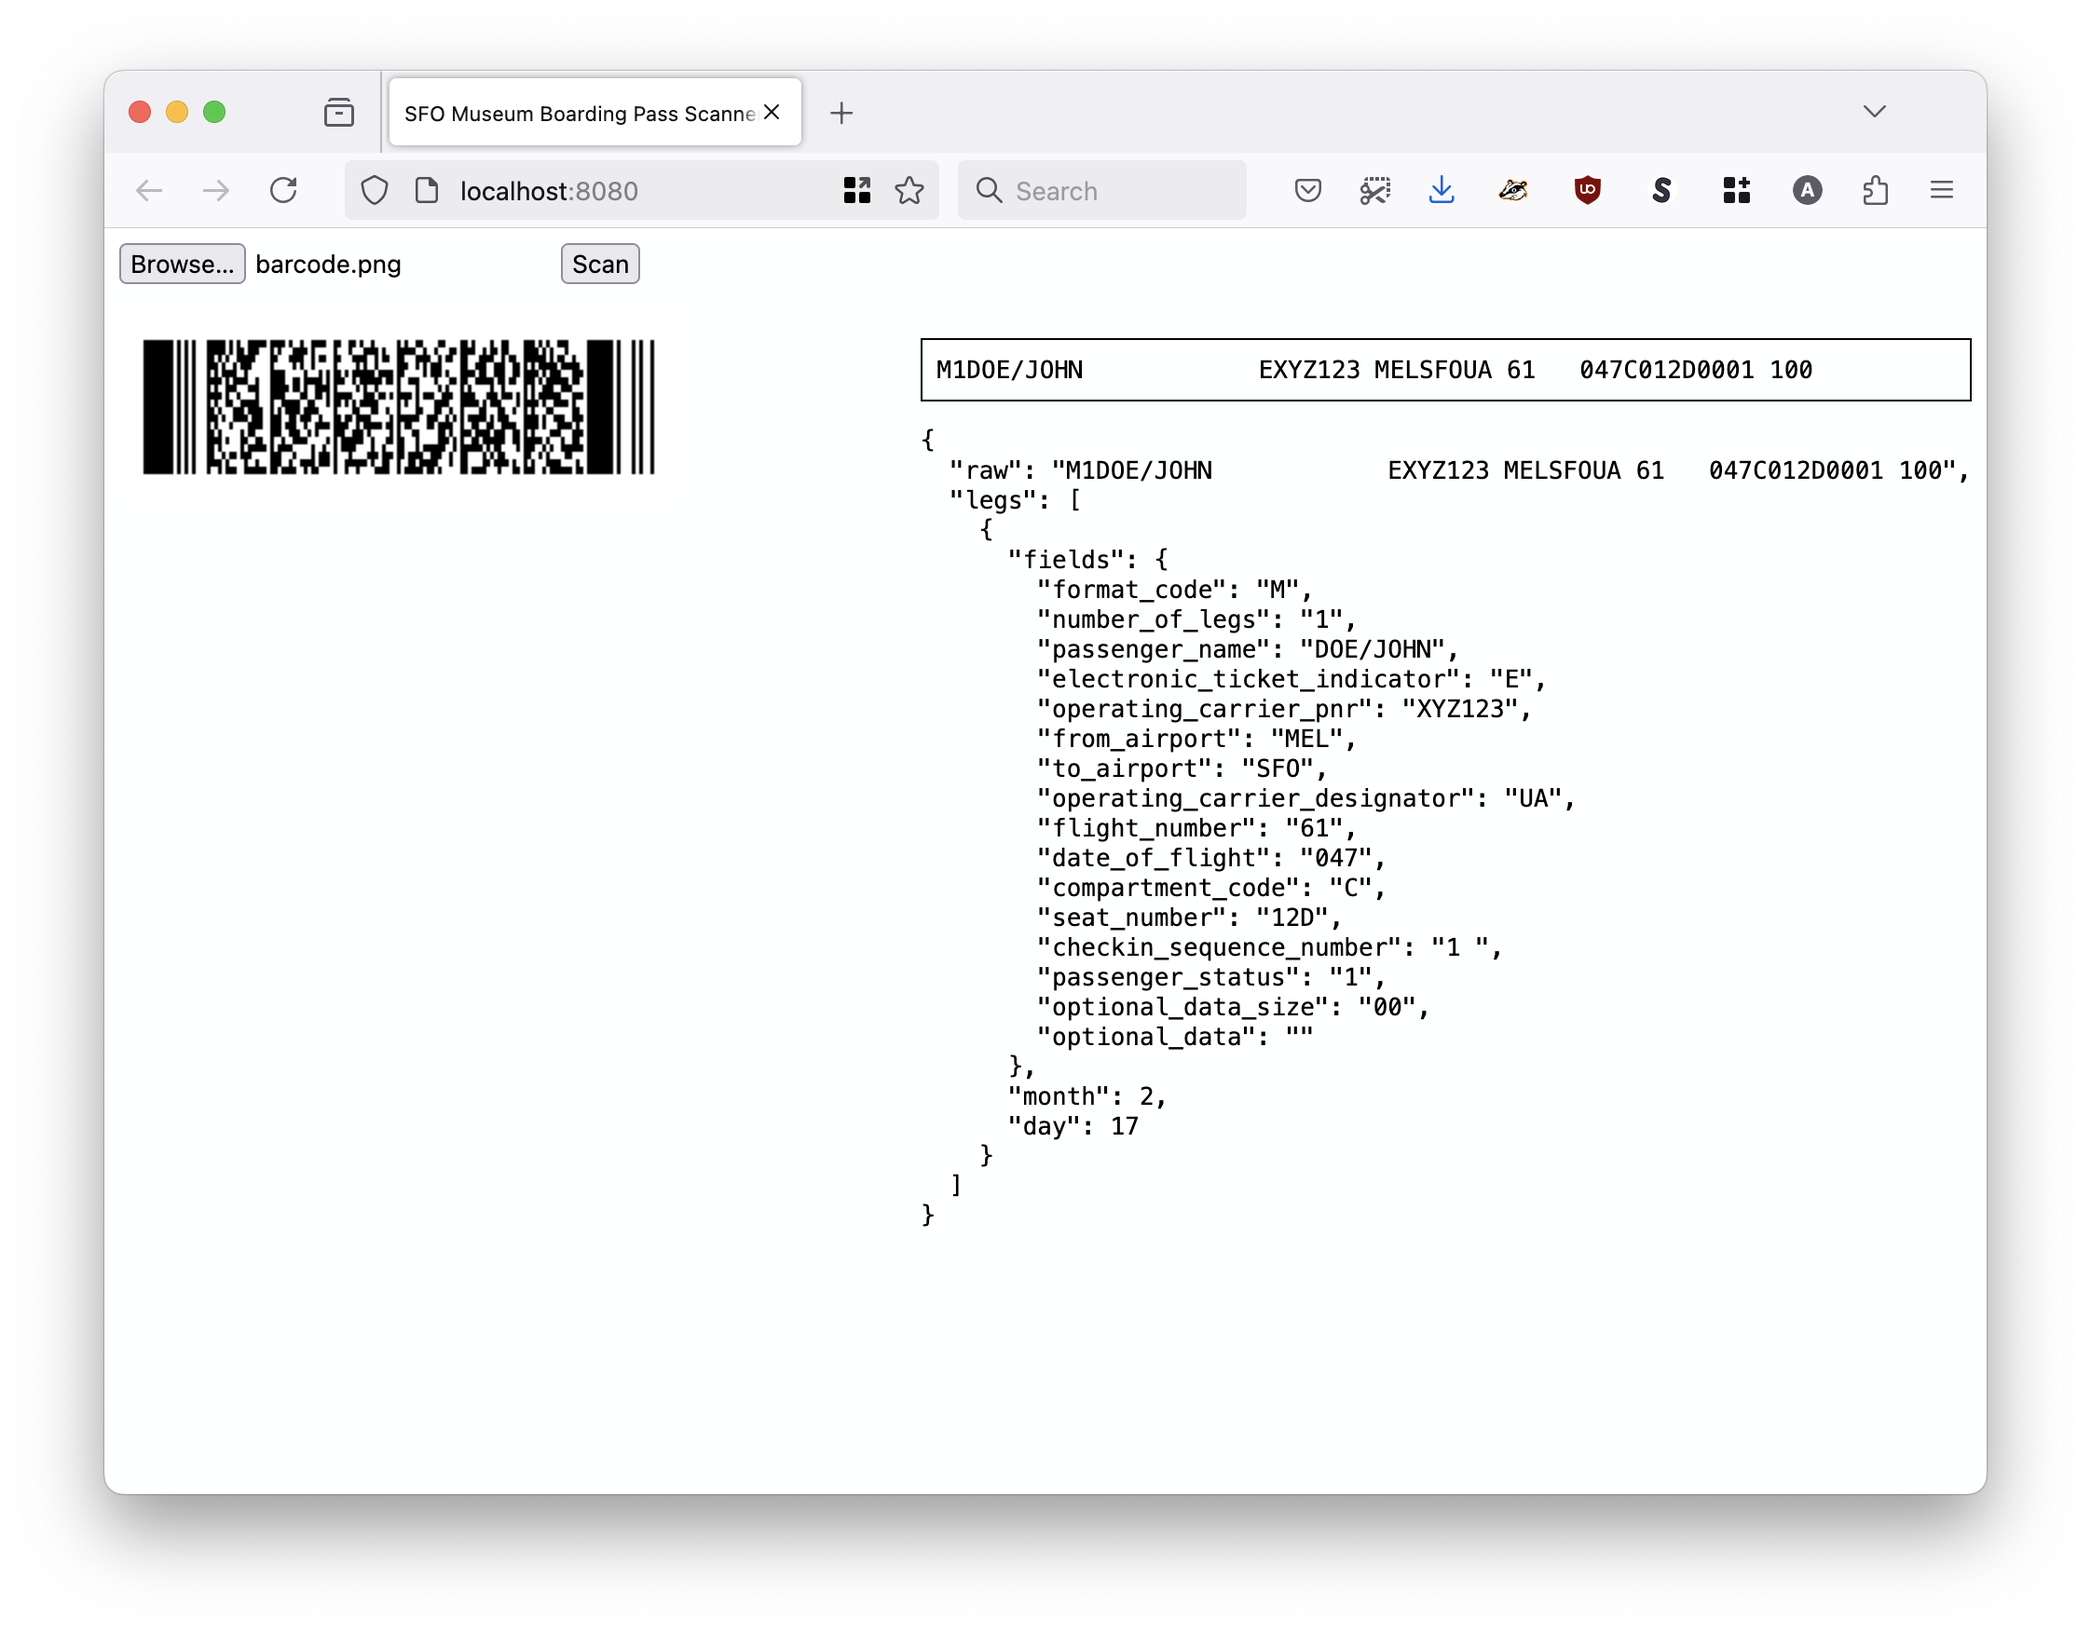
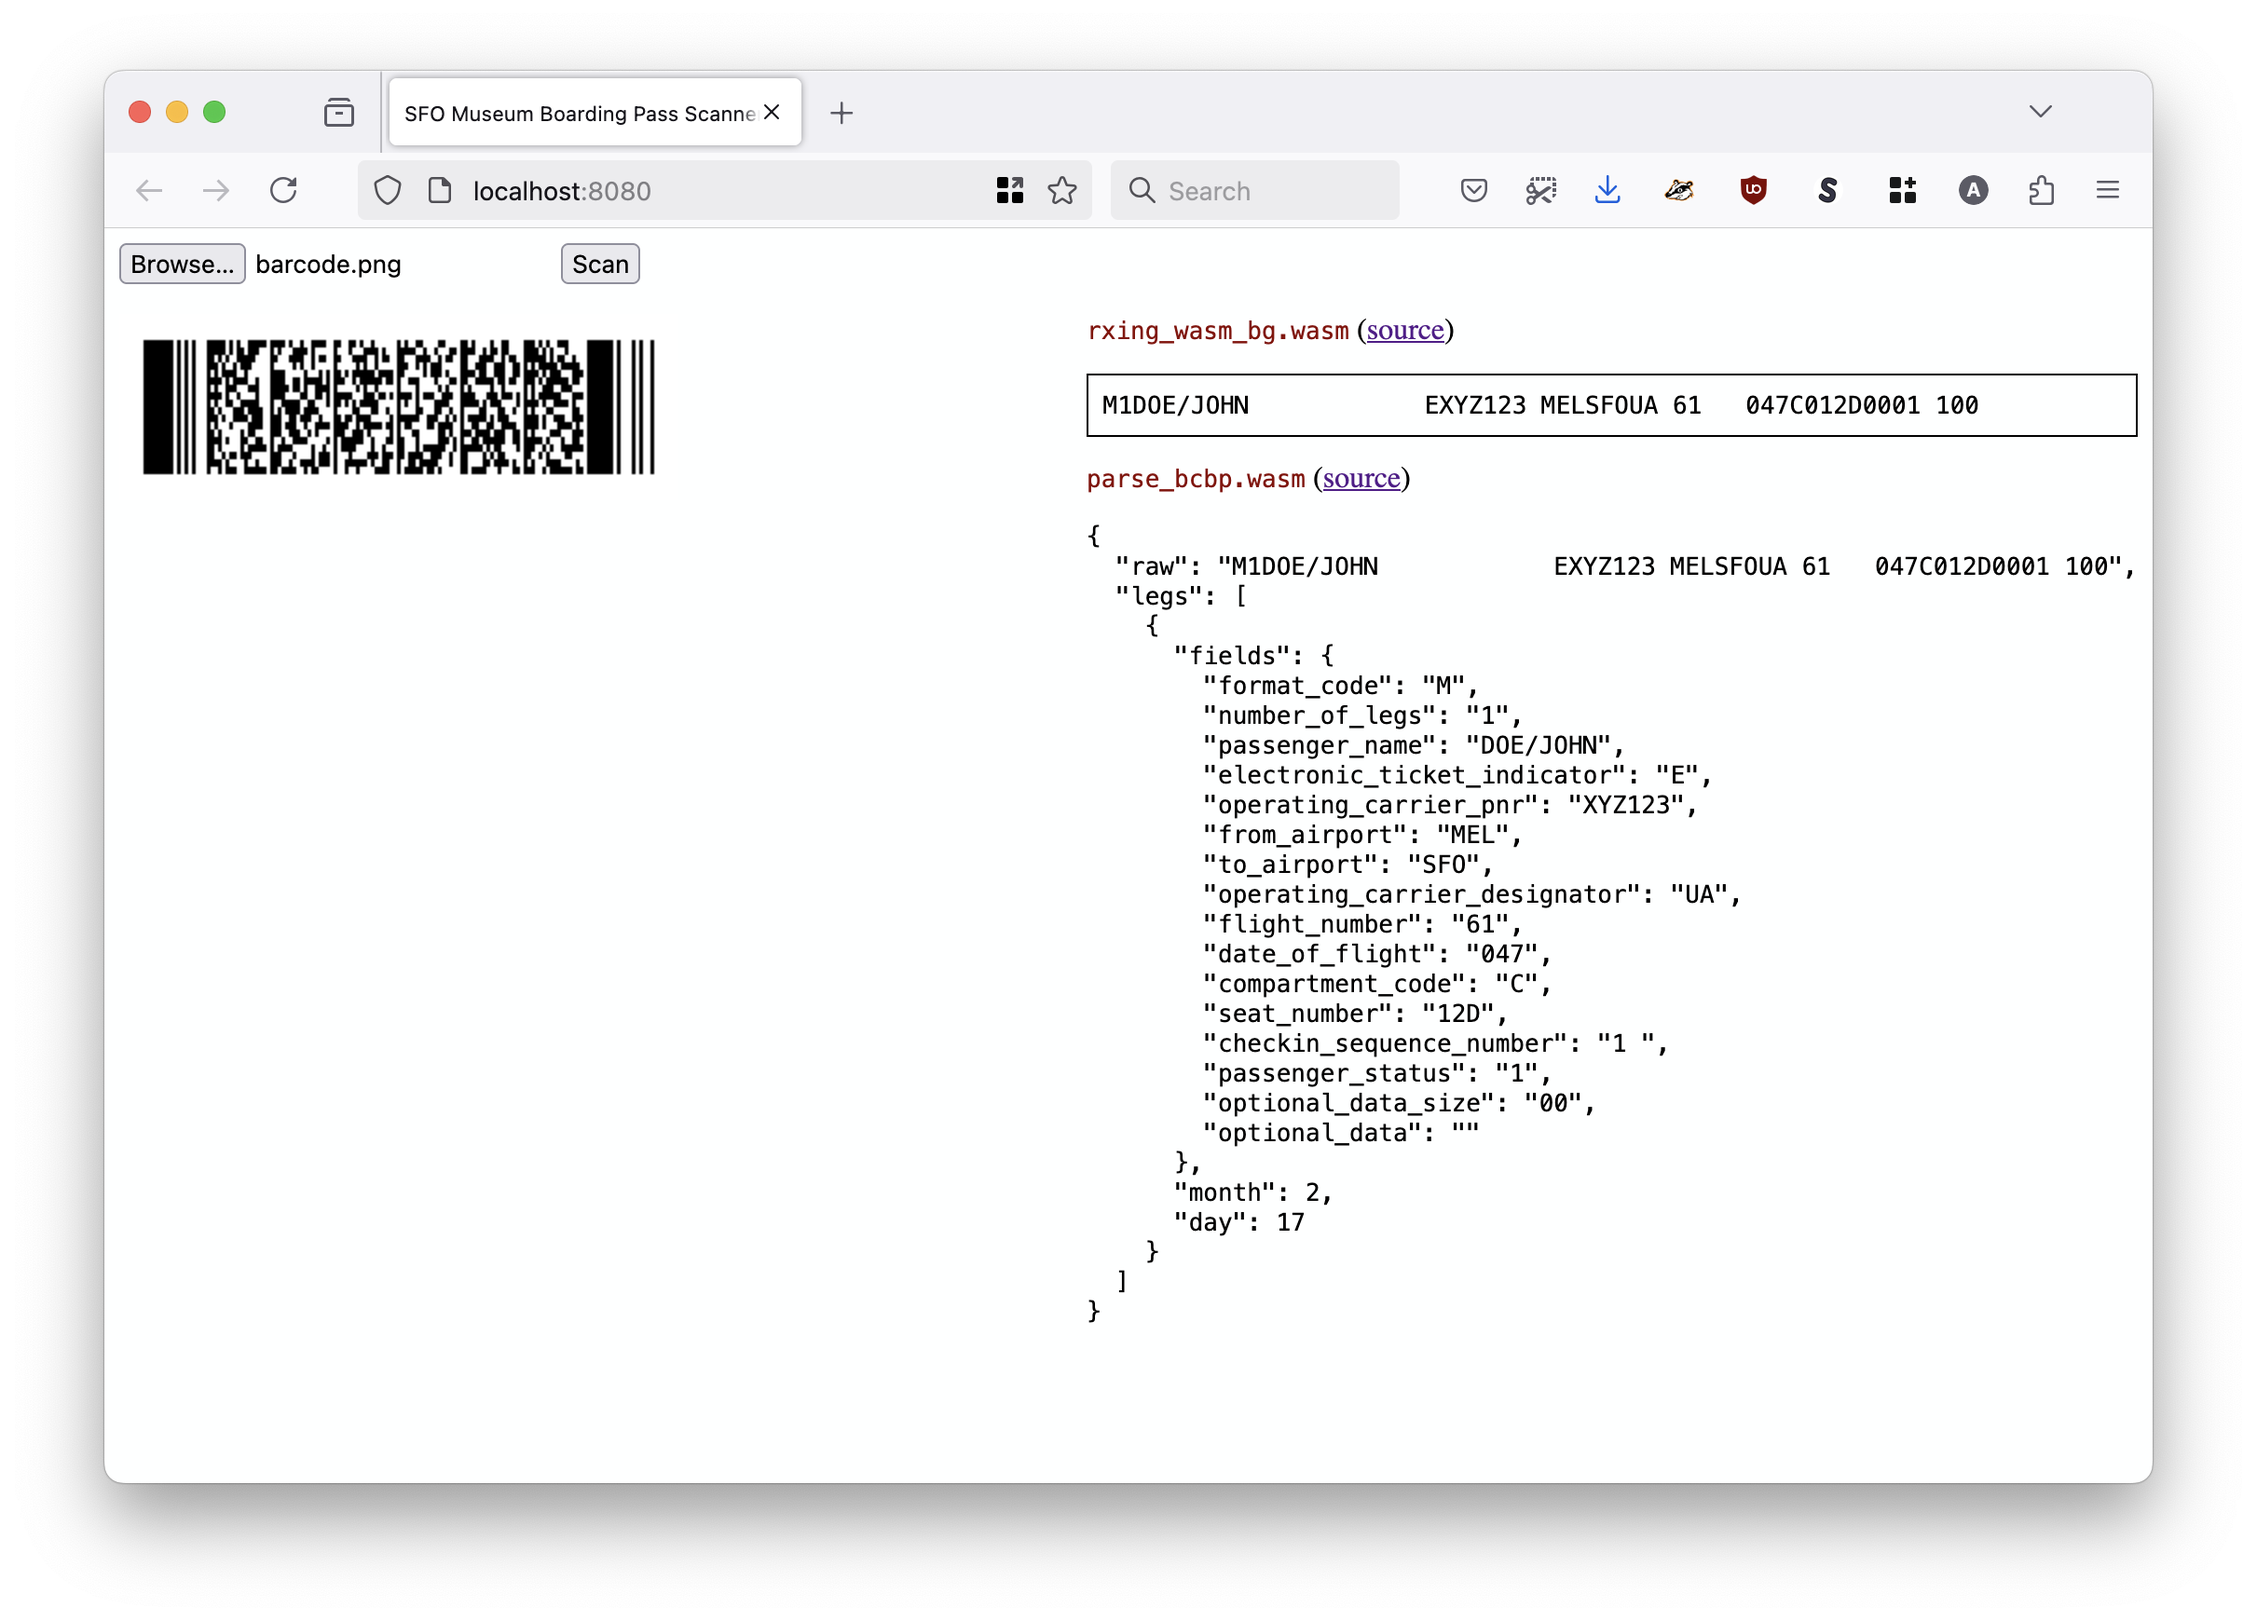
inidicate wasm binary in results, improve docs

diff --git a/www/index.html b/www/index.html
@@ -21,8 +21,10 @@
 	    <div class="grid">
 		<div id="image"></div>
 	    </div>
-	    <div class="grid">
+	    <div class="grid" id="results">
+		<label for="raw"><code>rxing_wasm_bg.wasm</code> (<a href="https://github.com/sfomuseum/rs-rxing-wasm" target="github">source</a>)</label>
 		<div id="raw"></div>
+		<label for="parsed"><code>parse_bcbp.wasm</code> (<a href="https://github.com/sfomuseum/go-bcbp-wasm" target="github">source</a>)</label>
 		<div id="parsed"></div>		
 	    </div>
 	</div>
@@ -39,7 +41,8 @@
 
 	 var image_el = document.getElementById("image");
 	 var raw_el = document.getElementById("raw");
-	 var parsed_el = document.getElementById("parsed");
+	 var parsed_el = document.getElementById("parsed");	 
+	 var results_el = document.getElementById("results");
 	 
 	 barcode_el.removeAttribute("disabled");	    
 	 submit_el.removeAttribute("disabled");
@@ -49,12 +52,16 @@
 	     image_el.innerHTML = "";
 	     raw_el.innerHTML = "";
 	     parsed_el.innerHTML = "";
+
+	     results_el.style.display = "none";
 	     
 	     var file = barcode_el.files[0];         
 	     var url = URL.createObjectURL(file);    
 	     var img = new Image();                  
 	     
 	     img.onload = function() {
+
+		 results_el.style.display = "block";
 		 
 		 URL.revokeObjectURL(this.src);      
 		 

diff --git a/www/css/index.css b/www/css/index.css
@@ -1,9 +1,13 @@
+code {
+	color: #8B0000;
+}
+
 #grid {
     display: grid;
     grid-template-columns:1fr 1fr;
     gap: 10px 10px;
 }
 
-#image img {
-	// max-height: 300px;
+#results {
+	display:none;
 }
